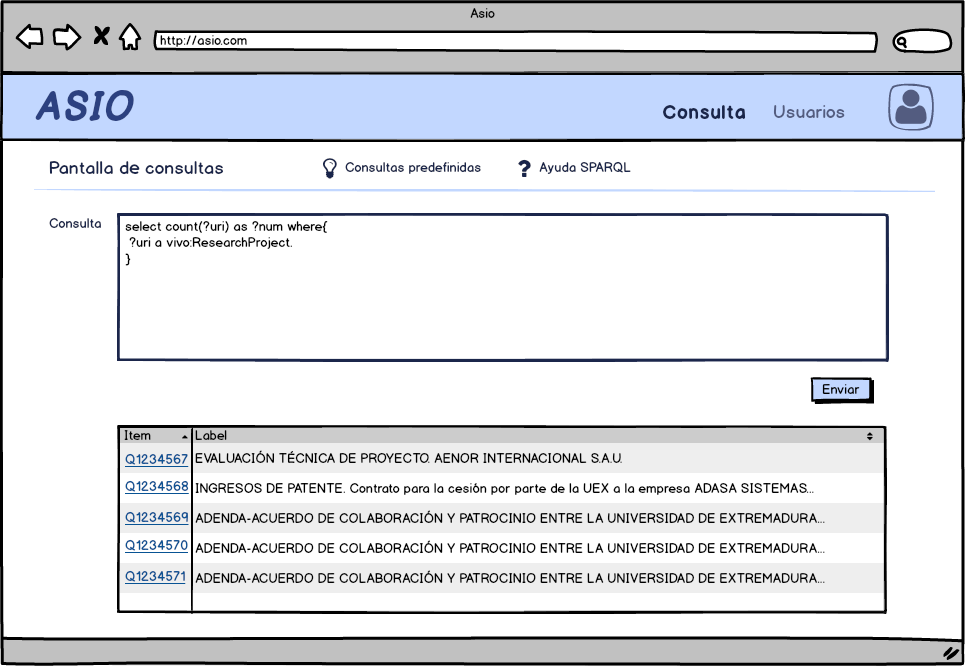
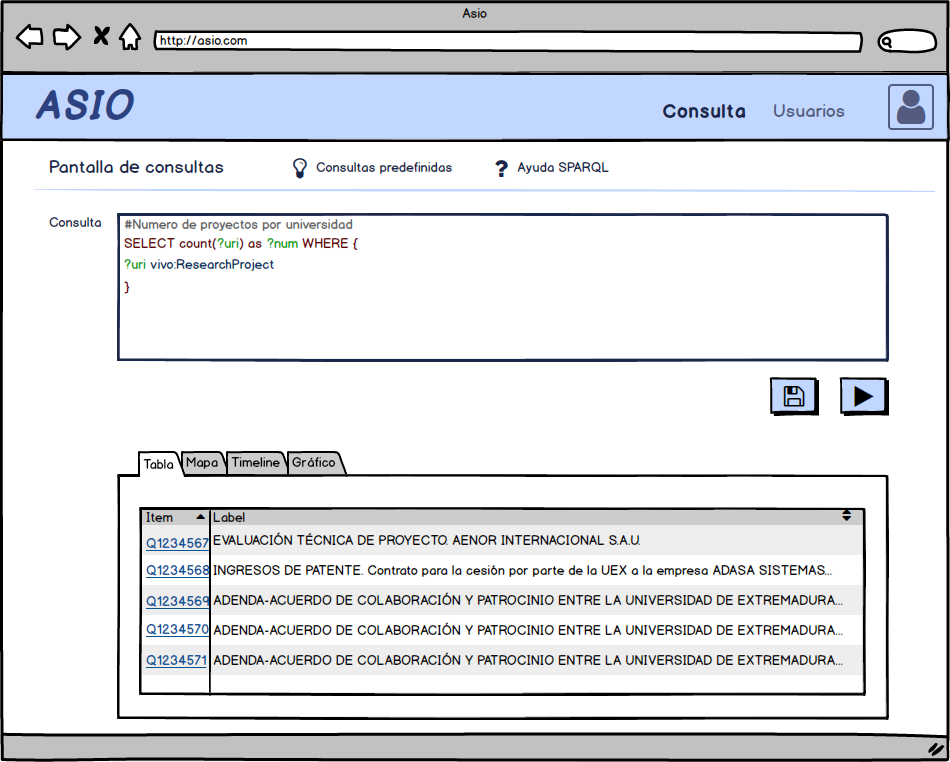
[SEMANTMURC-309] Pantalla Consulta

Changed region(s): [[0.0, 0.0, 1.0, 1.0], [0.1221, 0.5105, 0.1526, 0.5405]]

diff --git a/00-Análisis/Diseño de pantallas/Diseño de pantallas.md b/00-Análisis/Diseño de pantallas/Diseño de pantallas.md
@@ -164,7 +164,13 @@ Para consultar datos, los usuarios podrán acceder a una pantalla donde se permi
 
 ![Pantalla SPARQL](./images/mocks/consulta.png)
 
+Se puede ver el resultado de diferentes maneras.
 
+![Pantalla SPARQL GRAPH](./images/mocks/consulta-grafico.png)
+
+![Pantalla SPARQL TIMELINE](./images/mocks/consulta-timeline.png)
+
+![Pantalla SPARQL MAP](./images/mocks/consulta-mapa.png)
 
 En esta pantalla habrá la opción de seleccionar una consulta de datos predeterminada y de modificarla.
 
